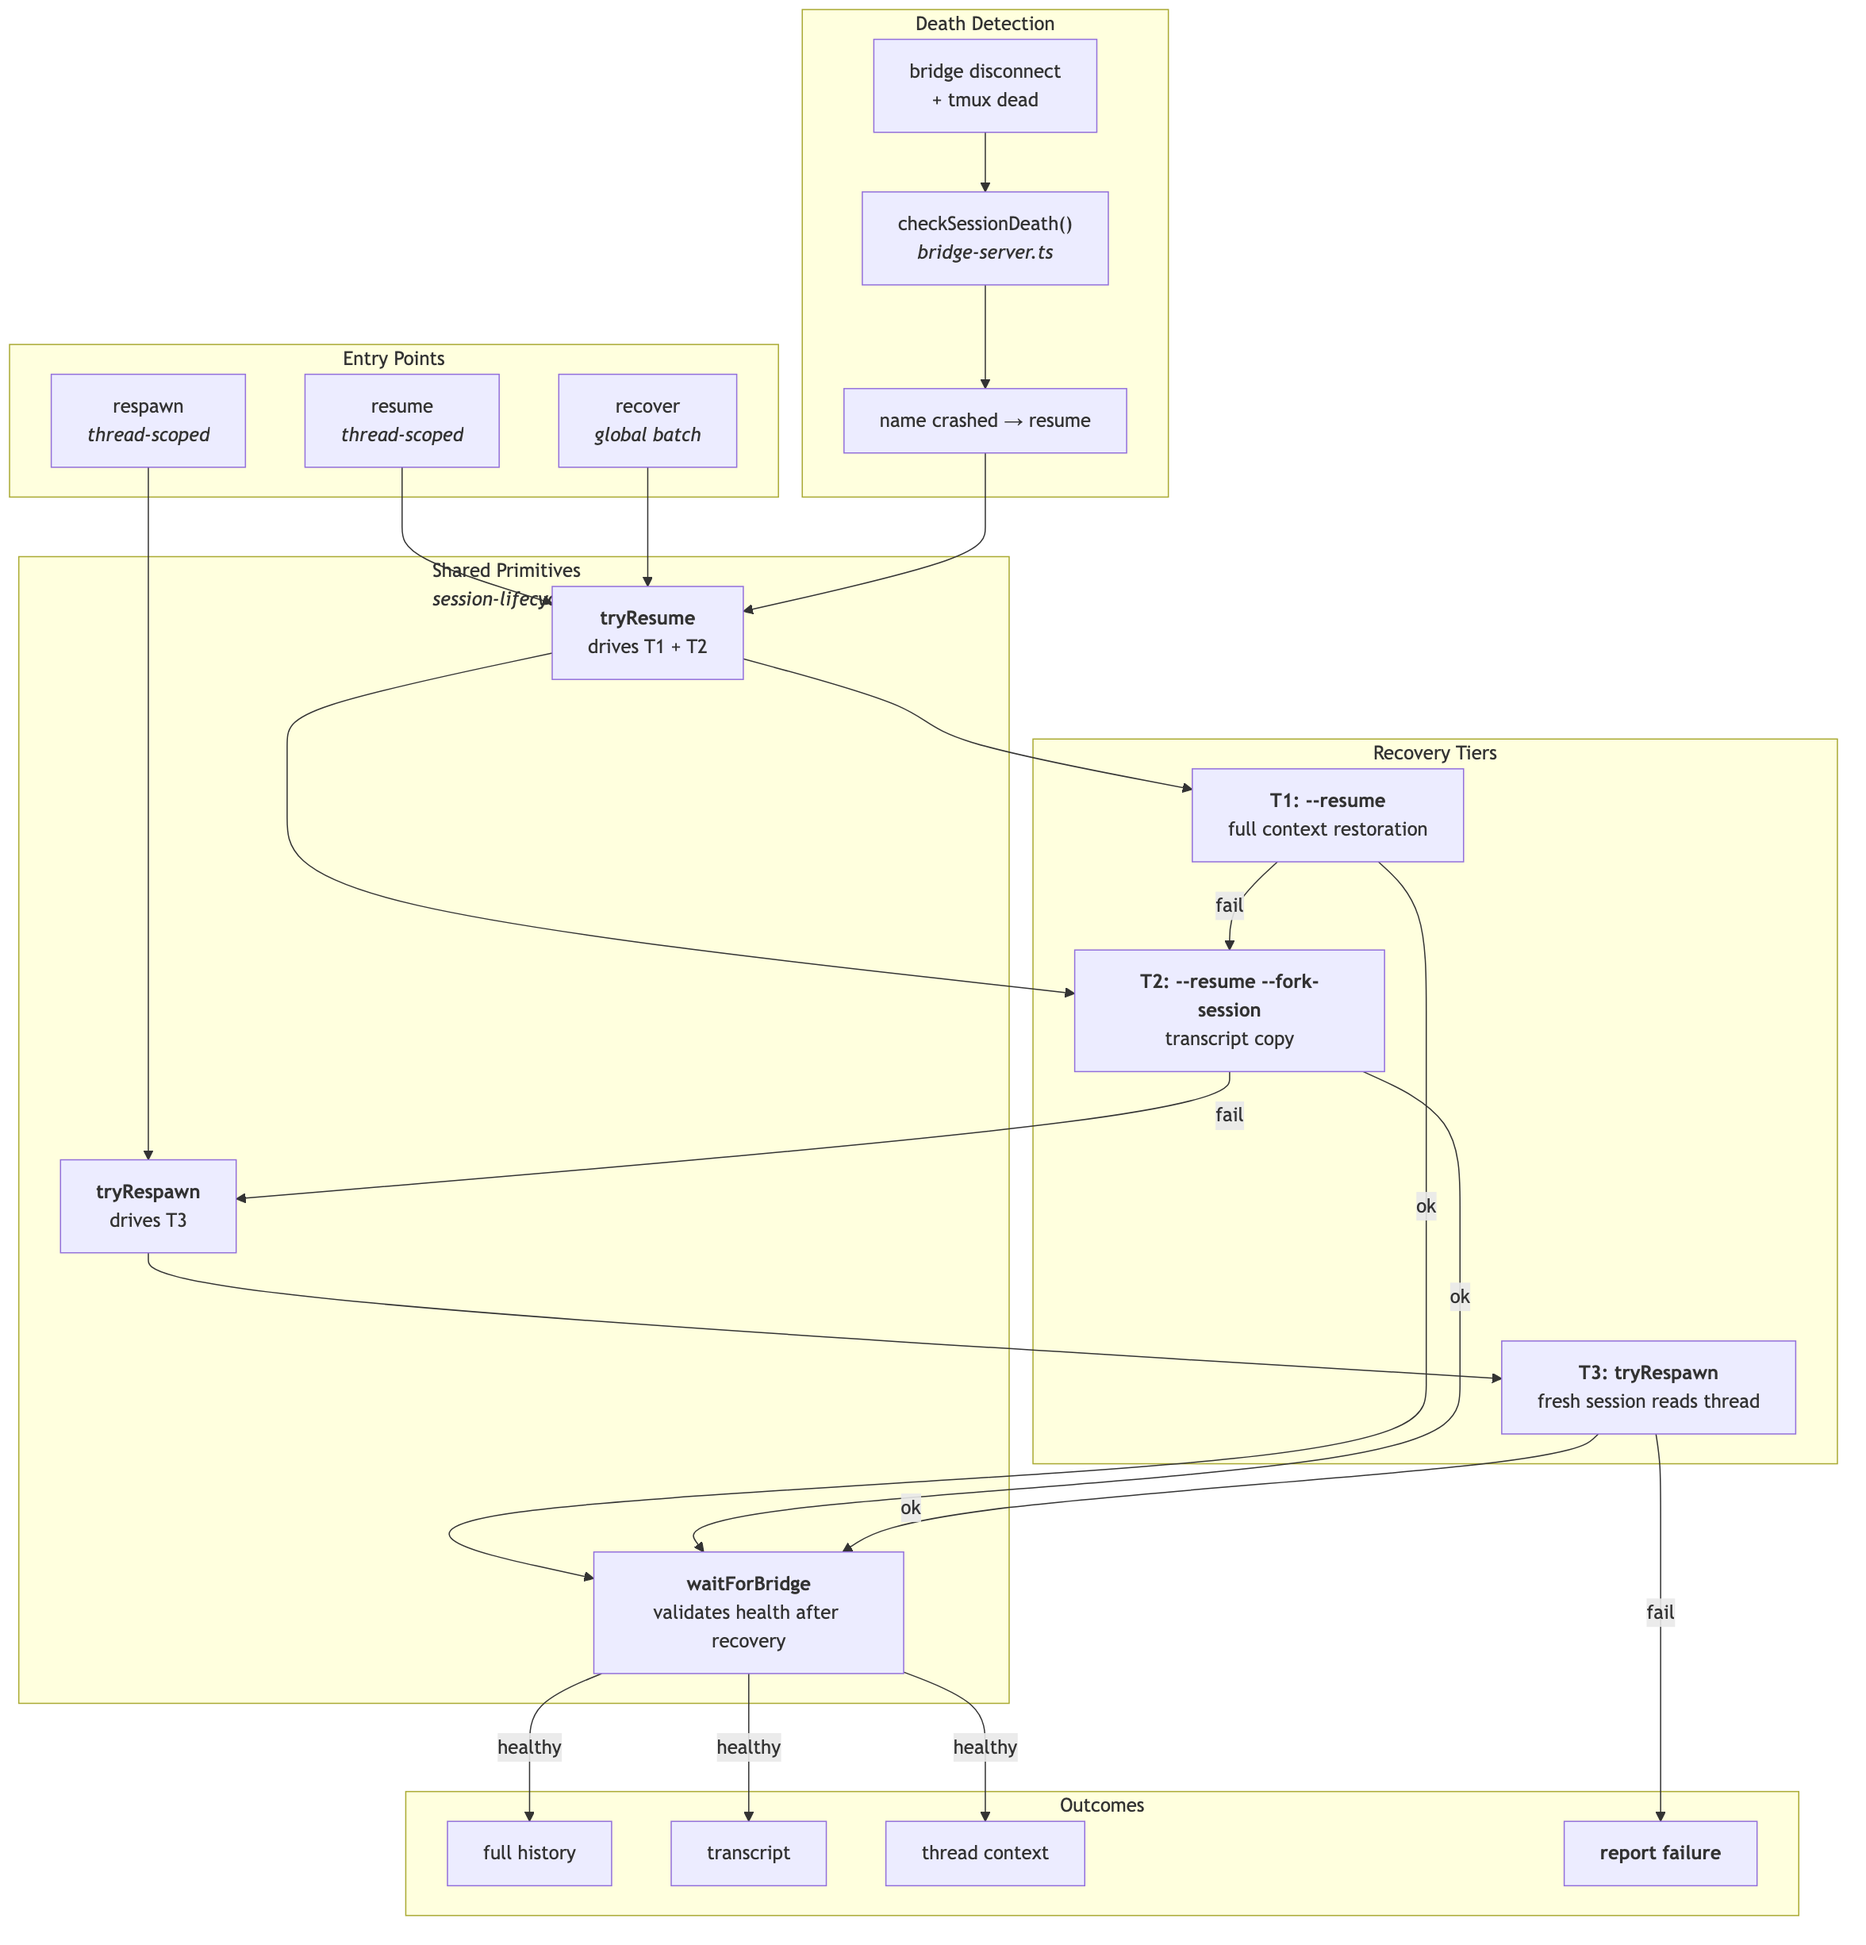
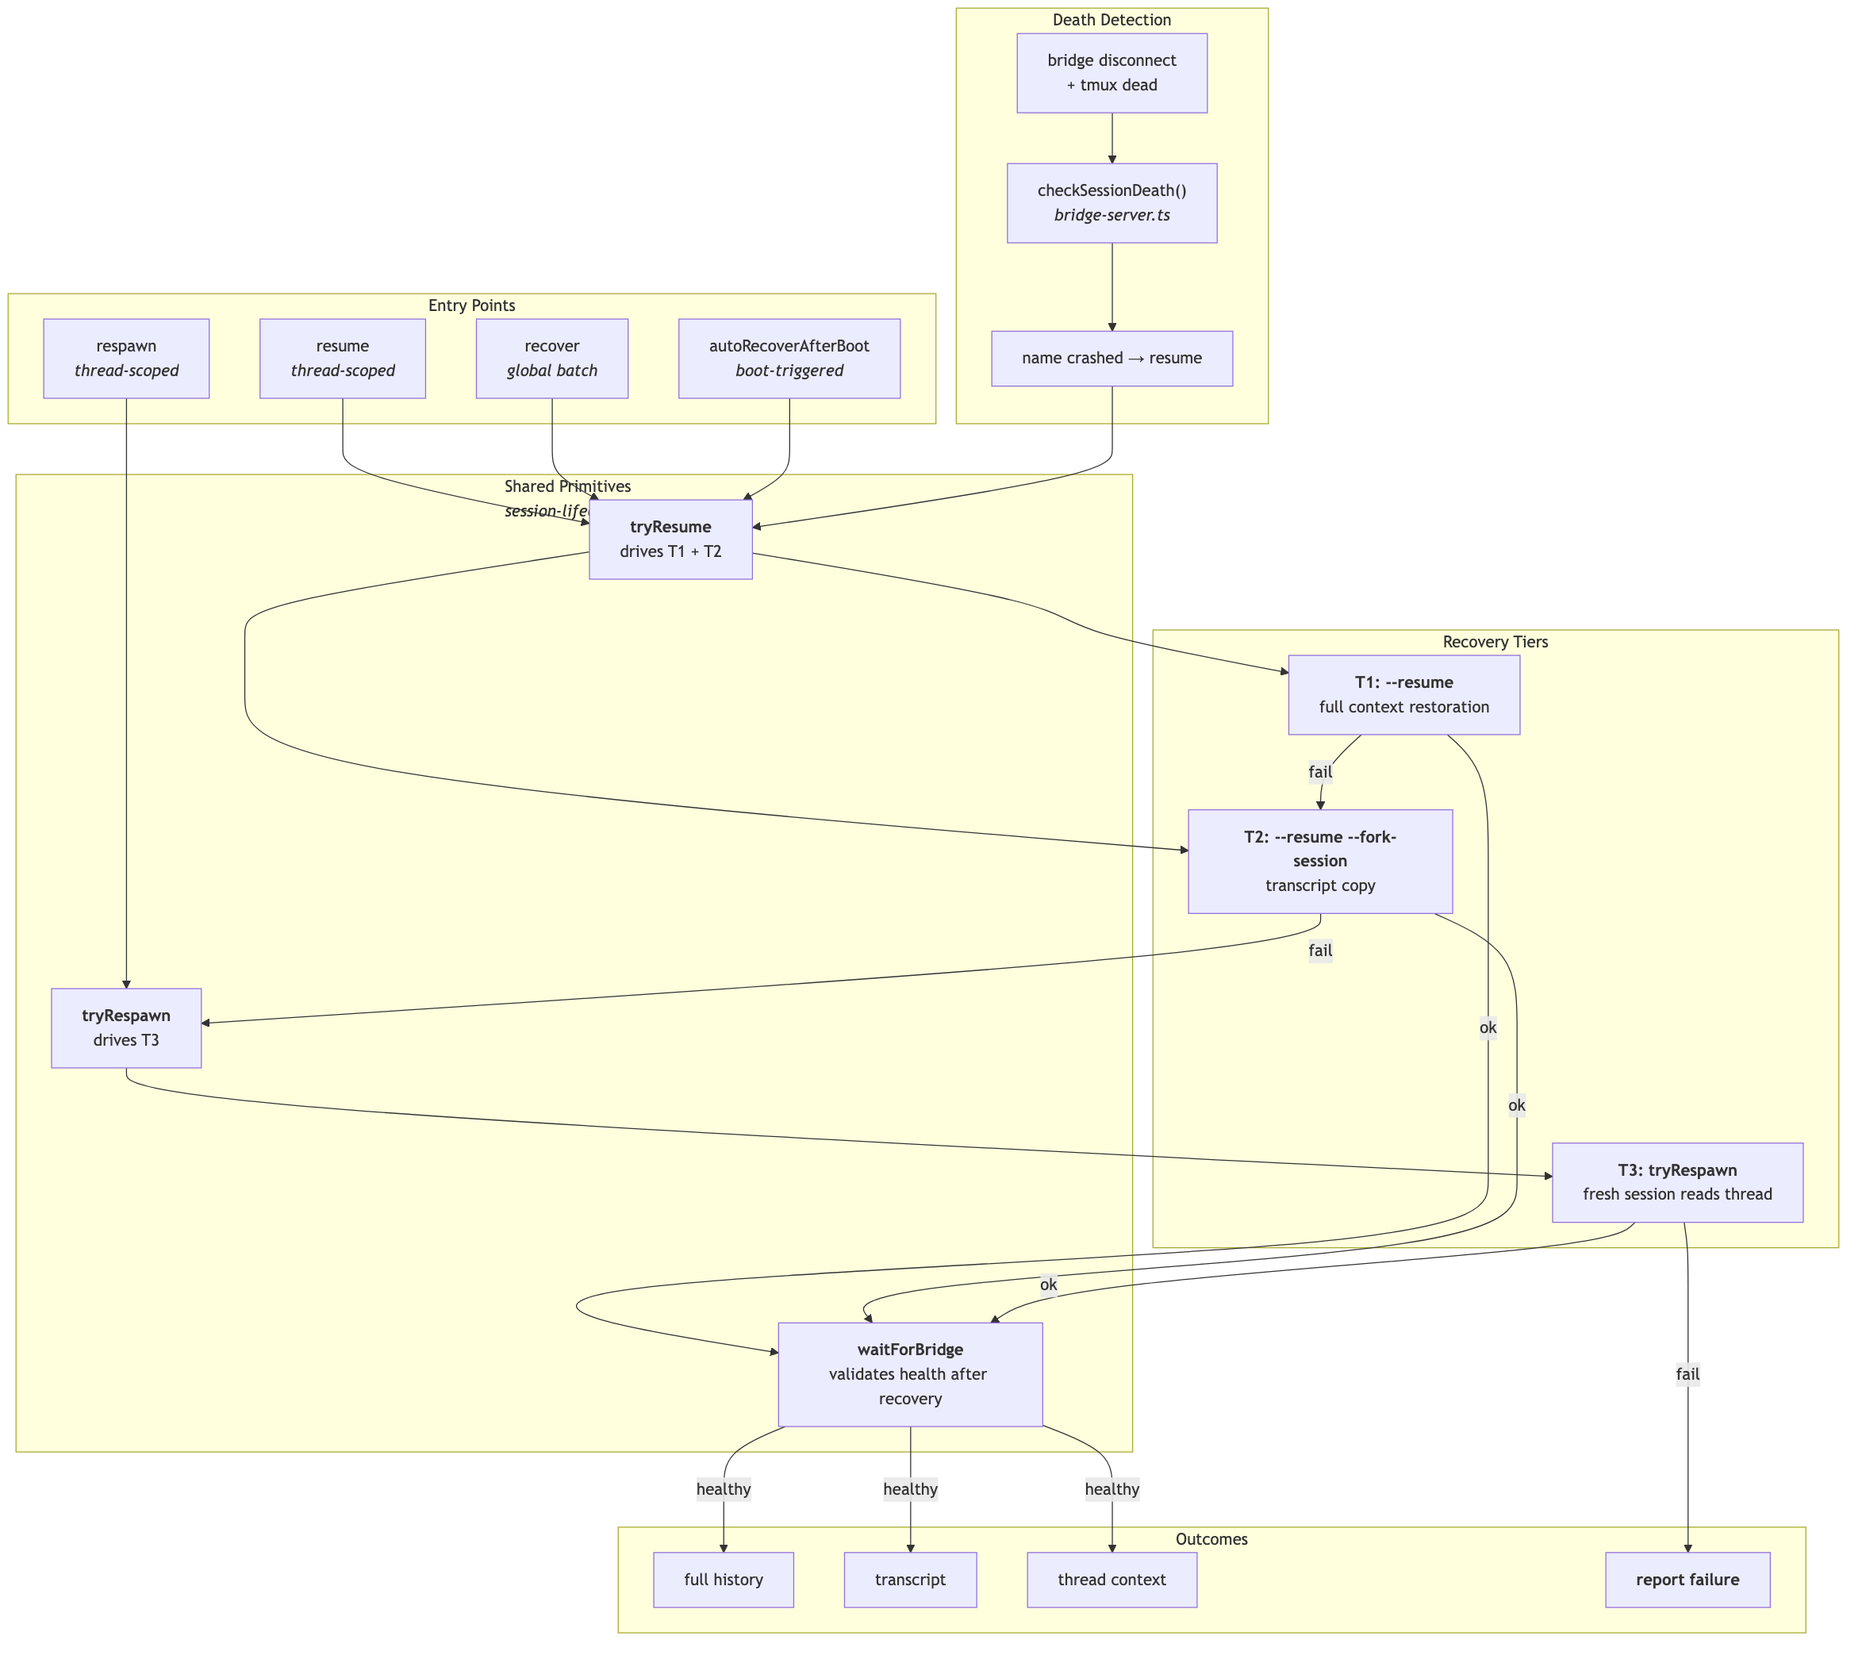
fix: add autoRecoverAfterBoot to recovery cascade diagram, fix summary footer
- Add boot-triggered auto-recovery as fourth entry point in
  flow-recovery-cascade.mmd, re-render PNG at 3x scale
- Only show "re-reading thread context" footer when sessions were
  actually recovered (not when all failed)

diff --git a/daemon/recovery.ts b/daemon/recovery.ts
@@ -418,8 +418,10 @@ async function postAutoRecoverySummary(
     const label = r.topic ? ` — ${r.topic}` : ''
     lines.push(`❌ \`${r.name}\`${label} (${r.reason})`)
   }
-  lines.push('')
-  lines.push('_Recovered sessions re-reading thread context._')
+  if (recovered.length > 0) {
+    lines.push('')
+    lines.push('_Recovered sessions re-reading thread context._')
+  }
 
   await notifyOperator(lines.join('\n'))
 }
